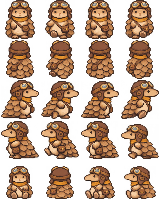
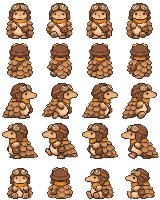
Finish Bow and Hearth watercolor scenes and refine Enkidu

diff --git a/e2e/bow-and-hearth.spec.ts b/e2e/bow-and-hearth.spec.ts
@@ -73,6 +73,12 @@ const findVisit = (page: Page, withEnkidu: boolean) => page.evaluate((withEnkidu
   return null;
 }, withEnkidu);
 
+async function expectPainting(page: Page, key: string) {
+  const painting = page.getByRole('dialog').locator('img.activity-scene');
+  await expect(painting).toHaveAttribute('src', new RegExp(`${key}[-.]`));
+  await expect.poll(() => painting.evaluate((image: HTMLImageElement) => image.naturalWidth)).toBe(640);
+}
+
 test('Enkidu meets the player at an eligible caravan and can rejoin at Southern Landing', async ({ page }) => {
   await page.goto(path + '&hour=12&at=poi_twin_landing');
   const talk = page.getByRole('button', { name: 'Talk to Enkidu' });
@@ -89,7 +95,9 @@ test('Enkidu meets the player at an eligible caravan and can rejoin at Southern 
   await page.goto(fixture + `&at=${guest.at.x},${guest.at.y}`);
   await expect(talk).toBeVisible({ timeout: 20_000 });
   await talk.click();
+  await expectPainting(page, 'woven-enkidu-meeting');
   await page.getByRole('button', { name: 'Invite Enkidu to travel' }).click();
+  await expectPainting(page, 'woven-enkidu-recruitment');
   await page.getByRole('button', { name: 'Go on' }).click();
   await expect.poll(async () => (await readJourney(page)).flags)
     .toEqual(expect.arrayContaining(['met:npc_enkidu', 'recruited:npc_enkidu', 'companion:npc_enkidu']));
@@ -119,6 +127,7 @@ test('the first overnight offer can be declined, then records the host visit on 
   await expect(rest).toBeEnabled({ timeout: 20_000 });
   await rest.click();
   await expect(page.getByRole('heading', { name: 'Beneath the western shelter' })).toBeVisible();
+  await expectPainting(page, 'woven-camp-sleep-elamite');
   await page.getByRole('button', { name: 'Leave for now' }).click();
   expect((await readJourney(page)).travelled).toBe(day * DAY_MS);
   await expect(rest).toBeEnabled();
@@ -129,7 +138,8 @@ test('the first overnight offer can be declined, then records the host visit on 
   const journey = await readJourney(page);
   expect(journey.travelled).toBeGreaterThan(day * DAY_MS);
   expect(journey.diaryEvents).toEqual(expect.arrayContaining([expect.objectContaining({
-    day, subjectId: camp.id, choiceId: 'stay', campResidents: expect.any(Array)
+    day, subjectId: camp.id, choiceId: 'stay', campResidents: expect.any(Array),
+    art: { collection: 'events', key: 'woven-camp-sleep-elamite', take: 0 }
   })]));
   expect(journey.diaryEvents.find((entry: { subjectId?: string }) => entry.subjectId === camp.id).campResidents).toHaveLength(3);
 });

diff --git a/test/elamiteCaravan.test.ts b/test/elamiteCaravan.test.ts
@@ -1,4 +1,6 @@
 import { describe, expect, it } from 'vitest';
+import { caravanWitnessEvent } from '../src/content/campHospitality';
+import { preferredArtSelection } from '../src/ui/art';
 import { campPeople, campPlacements, doingLine } from '../src/content/campLife';
 import { happeningNow, surroundingsAt } from '../src/content/happenings';
 import { strangersMet } from '../src/content/people';
@@ -64,6 +66,10 @@ describe('Elamite caravan planning', () => {
     const now = { fieldMapId: TWIN_MAP, day: day + 2, shelter: null, holds: [], seen: [], met: keys };
     const welcome = happeningNow({ ...now, occasion: 'arriving' }, roll, { ...vicinity, camp: visit }, [], { kind: 'camp', asked: true });
     expect(welcome?.title).toBe('The western caravan');
+    expect(preferredArtSelection('events', [welcome?.artVariant, welcome?.art])?.key).toBe('woven-camp-elamite');
+    const witnessArt = (['arrival', 'departure'] as const).map((moment) =>
+      preferredArtSelection('events', [caravanWitnessEvent(visit, moment, TWIN_MAP).art])?.key);
+    expect(witnessArt).toEqual(['woven-camp-elamite-arrival', 'woven-camp-elamite-departure']);
     expect(welcome?.choices).toHaveLength(2);
     expect(welcome?.choices.every((choice) => (choice.gives?.length ?? 0) === 0)).toBe(true);
     const person = roster[1]!;
@@ -76,6 +82,13 @@ describe('Elamite caravan planning', () => {
     expect(talk?.stranger).toMatchObject({ id: keys[1], givenName: person.givenName, culture: 'elamite' });
     expect(talk?.topics?.every((topic) => topic.historyKey.includes(':elamite-'))).toBe(true);
     expect(talk?.topics).toHaveLength(3);
+    const meal = happeningNow({ ...now, occasion: 'road' }, roll, {
+      ...vicinity,
+      campPerson: {
+        person, activity: 'meal', meal: true, doing: doingLine(person.kind, person.slot, 'meal', person.elamiteRole)
+      }
+    }, [], { kind: 'camp-talk', asked: true });
+    expect(preferredArtSelection('events', [meal?.artMoment, meal?.artVariant, meal?.art])?.key).toBe('woven-camp-meal-elamite');
     expect(Object.values(ELAMITE_DIALOGUE).flat()).toHaveLength(42);
   });
 

diff --git a/src/ui/StrangerFace.tsx b/src/ui/StrangerFace.tsx
@@ -95,17 +95,19 @@ export function paintedFaceFor(stranger: EventStranger): string | null {
 export interface StrangerFaceProps {
   stranger: EventStranger;
   size?: number;
+  variant?: 'portrait' | 'action';
 }
 
 /** Presentational, like `PersonPortrait`: the title beside it already says who this is. */
-export function StrangerFace({ stranger, size = 40 }: StrangerFaceProps) {
+export function StrangerFace({ stranger, size = 40, variant = 'portrait' }: StrangerFaceProps) {
+  const className = variant === 'action' ? 'tile-action-portrait' : 'person-portrait';
   // Keyed on the name as well as who they are, because the name is dealt per journey: a new journey's
   // carrier is a new face, and one journey's carrier keeps theirs.
   const painted = paintedFaceFor(stranger);
   if (painted) {
     return (
       <img
-        className="person-portrait is-painted stranger-face"
+        className={`${className} is-painted stranger-face`}
         src={painted}
         width={size}
         height={size}
@@ -120,7 +122,7 @@ export function StrangerFace({ stranger, size = 40 }: StrangerFaceProps) {
   const headwear = HEADWEAR[headwearOf(stranger.look.body)];
   return (
     <svg
-      className="person-portrait stranger-face"
+      className={`${className} stranger-face`}
       width={size}
       height={size}
       viewBox="0 0 24 24"

diff --git a/src/game/systems/EnkiduView.ts b/src/game/systems/EnkiduView.ts
@@ -1,4 +1,4 @@
-import type Phaser from 'phaser';
+import Phaser from 'phaser';
 import { ENKIDU_ID, enkiduDry, enkiduHome } from '../../content/enkidu';
 import { orthogonalNeighbours } from '../../world/rivers';
 import type { Point, World } from '../../world/types';
@@ -24,8 +24,15 @@ export class EnkiduView {
     this.home = enkiduHome(world, landing, occupied);
     this.sprite = scene.add.sprite(0, 0, 'enkidu').setName('companion:enkidu')
       .setOrigin(0.5, 1).setScale(figureScale(TILE_SIZE)).setVisible(false);
-    this.shadow = scene.add.image(0, 0, SHADOW_TEXTURE).setDisplaySize(86, 21).setVisible(false);
-    this.sprite.setInteractive({ useHandCursor: true });
+    for (const key of ['enkidu', 'caravan-enkidu-gestures']) {
+      scene.textures.get(key).setFilter(Phaser.Textures.FilterMode.NEAREST);
+    }
+    this.shadow = scene.add.image(0, 0, SHADOW_TEXTURE).setDisplaySize(79, 19).setVisible(false);
+    this.sprite.setInteractive({
+      hitArea: new Phaser.Geom.Rectangle(2, 4, 36, 36),
+      hitAreaCallback: Phaser.Geom.Rectangle.Contains,
+      useHandCursor: true
+    });
     this.sprite.on('pointerdown', (_pointer: Phaser.Input.Pointer, _x: number, _y: number, event: Phaser.Types.Input.EventData) => {
       if (!this.selectionTile()) return;
       event.stopPropagation();

diff --git a/test/bowAndHearthLevel1.test.ts b/test/bowAndHearthLevel1.test.ts
@@ -7,7 +7,7 @@ import {
   PAINTED_APPEARANCE, bindNpcAppearances, legacyNpcAppearances, rememberNpcAppearance
 } from '../src/content/npcAppearance';
 import { travellersOn } from '../src/content/travellers';
-import { artNames } from '../src/ui/art';
+import { artNames, preferredArtSelection } from '../src/ui/art';
 import { paintedFaceFor } from '../src/ui/StrangerFace';
 import { TWIN_MAP, twinWorldSeed } from '../src/world/twinGeneration';
 
@@ -61,6 +61,7 @@ describe('Bow and Hearth Level 1', () => {
     expect(offers.map(({ art }) => art)).toEqual([...kinds, 'elamite'].map((kind) => `woven-camp-sleep-${kind}`));
     for (const offer of offers) {
       expect(offer.subjectId).toBe(camp.id);
+      expect(preferredArtSelection('events', [offer.art])).toMatchObject({ key: offer.art });
       expect(offer.choices.map(({ id, sets }) => ({ id, sets }))).toEqual([
         { id: 'stay', sets: ['hospitality:camp:2'] },
         { id: 'leave', sets: undefined }

diff --git a/test/jrpgSources.test.ts b/test/jrpgSources.test.ts
@@ -26,3 +26,22 @@ describe('reviewed NES JRPG sources',()=>{
     });
   }
 });
+
+it('draws Enkidu’s standing frames at 90% of Varuna’s visible height', () => {
+  const idleFrames = [0, 1, 4, 5, 8, 9, 12, 13];
+  const sheet = (id: string) => decodePng(join(root, 'assets', `${id}-overworld.png`));
+  const enkidu = sheet('enkidu');
+  const varuna = sheet('varuna');
+  const visibleHeight = (atlas: ReturnType<typeof sheet>, frame: number): number => {
+    const width = atlas.width / 20;
+    const rows = [];
+    for (let y = 0; y < atlas.height; y++) {
+      const from = y * atlas.width + frame * width;
+      if (Array.from({ length: width }, (_, x) => atlas.data[(from + x) * 4 + 3]).some((alpha) => alpha >= 128)) rows.push(y);
+    }
+    return rows.at(-1)! - rows[0]! + 1;
+  };
+  for (const frame of idleFrames) {
+    expect(visibleHeight(enkidu, frame)).toBe(0.9 * visibleHeight(varuna, frame));
+  }
+});

diff --git a/src/ui/App.tsx b/src/ui/App.tsx
@@ -1240,7 +1240,7 @@ export function App() {
               label: talk.label,
               detail: talk.detail ?? undefined,
               mark: talkFace && StrangerFace
-                ? <StrangerFace stranger={talkFace} size={24} />
+                ? <StrangerFace stranger={talkFace} size={22} variant="action" />
                 : talk.npcId || talk.atCamp ? '💬' : '👣',
               // Never greyed: anybody in view can be called to, and they wait while you walk up.
               blocked: null,

diff --git a/src/ui/styles.css b/src/ui/styles.css
@@ -2088,7 +2088,7 @@ button.ghost:hover:not(:disabled) {
  * as a picture set into the page rather than an image dropped on it; `object-fit: cover` because
  * the build writes squares and a future non-square source should crop rather than stretch a face.
  */
-.person-portrait.is-painted {
+:is(.person-portrait, .tile-action-portrait).is-painted {
   border-radius: 4px;
   object-fit: cover;
   border: 1px solid var(--edge);

diff --git a/tools/import-caravan-art.py b/tools/import-caravan-art.py
@@ -87,9 +87,9 @@ def croc_walk(path):
     atlas.save(ART / "croc-walk.png", optimize=True)
 
 
-def pose_strip(path, name, count, size):
+def pose_strip(path, name, count, size, standing_height=None):
     poses = [sprite(cell) for cell in cells(path, count, 1)]
-    scale = min((size[0]-2) / max(p.width for p in poses), (size[1]-2) / max(p.height for p in poses))
+    scale = min((size[0]-2) / max(p.width for p in poses), (standing_height or size[1]-2) / max(p.height for p in poses))
     atlas = Image.new("RGBA", (size[0] * count, size[1]))
     for index, pose in enumerate(poses):
         atlas.paste(centred(pose, *size, scale), (index * size[0], 0))
@@ -108,6 +108,6 @@ if __name__ == "__main__":
     elif args.sheet_type == "croc-walk":
         croc_walk(args.input_image)
     elif args.sheet_type == "enkidu-gestures":
-        pose_strip(args.input_image, args.sheet_type, 4, (40, 40))
+        pose_strip(args.input_image, args.sheet_type, 4, (40, 40), standing_height=36)
     else:
         {"directions": directions, "people": people, "portraits": portraits, "props": props}[args.sheet_type](args.input_image)

diff --git a/tools/import-jrpg-sheet.py b/tools/import-jrpg-sheet.py
@@ -34,7 +34,7 @@ def import_sheet(source, destination, width, standing_height=None):
             boxes.append((left+x0,y0+top,left+x1,y0+bottom))
     # One scale for every pose avoids breathing/stride frames changing body size.
     scale=min((width-2)/max(b[2]-b[0] for b in boxes),
-              38/max(b[3]-b[1] for b in boxes[:16]))
+              (standing_height or 38)/max(b[3]-b[1] for b in boxes[:16]))
     compact=Image.new('RGBA',(width*4,40*5))
     for index,box in enumerate(boxes):
         sprite=im.crop(box)
